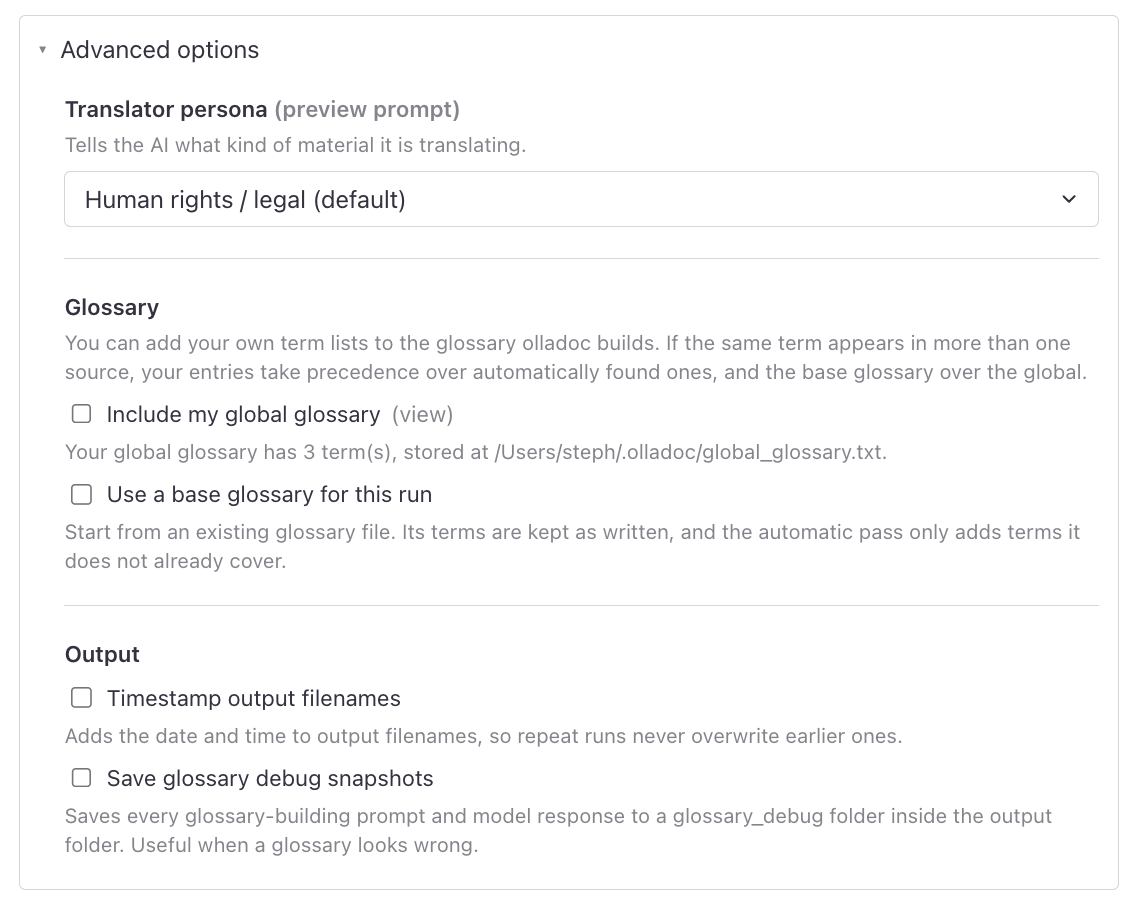
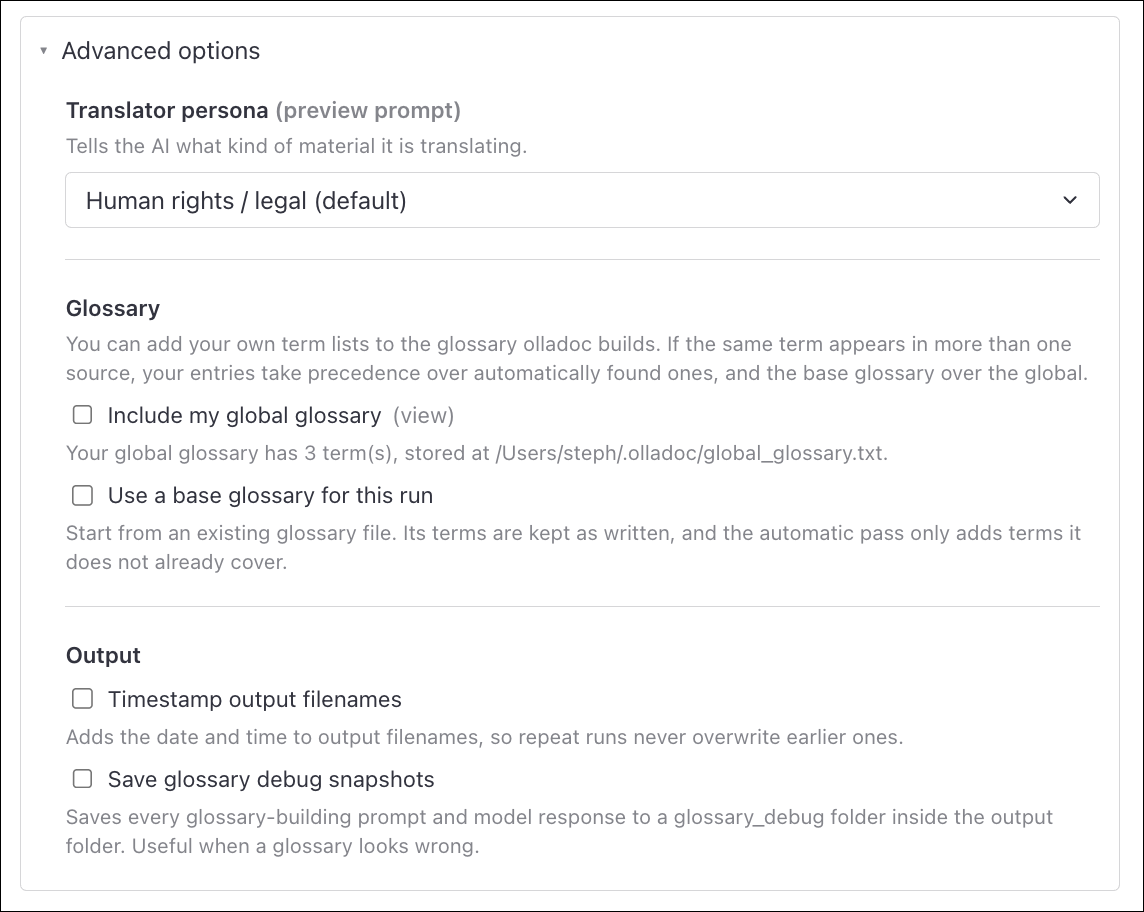
formatting screenshots

diff --git a/README.md b/README.md
@@ -89,7 +89,7 @@ See [Using the CLI](#using-the-cli) for flags, batch mode, and two-phase workflo
 
 ## Using the web app
 
-![olladoc web app](screenshots/main_interface.png)
+<img src="screenshots/main_interface.png" alt="olladoc web app" width="650" />
 
 **Ollama status bar (top).** Shows whether `http://localhost:11434` is reachable. Start / Stop control an Ollama process olladoc manages itself; Stop is only enabled for processes it launched. "View logs" tails either olladoc's log or `~/.ollama/logs/server.log`. "Pull a new model" downloads from [ollama.com/library](https://ollama.com/library) with a live log and cancel button.
 
@@ -105,7 +105,7 @@ See [Using the CLI](#using-the-cli) for flags, batch mode, and two-phase workflo
 - Timestamp outputs: adds `_YYYY-MM-DD_HHMM` to filenames so repeat runs never overwrite earlier ones.
 - Debug snapshots: saves every glossary-building prompt and model response under the output folder.
 
-![Advanced options](screenshots/advanced_options.png)
+<img src="screenshots/advanced_options.png" alt="Advanced options" width="600" />
 
 **Output folder.** Where translated `.docx` files land. Defaults to `./translated`.
 
